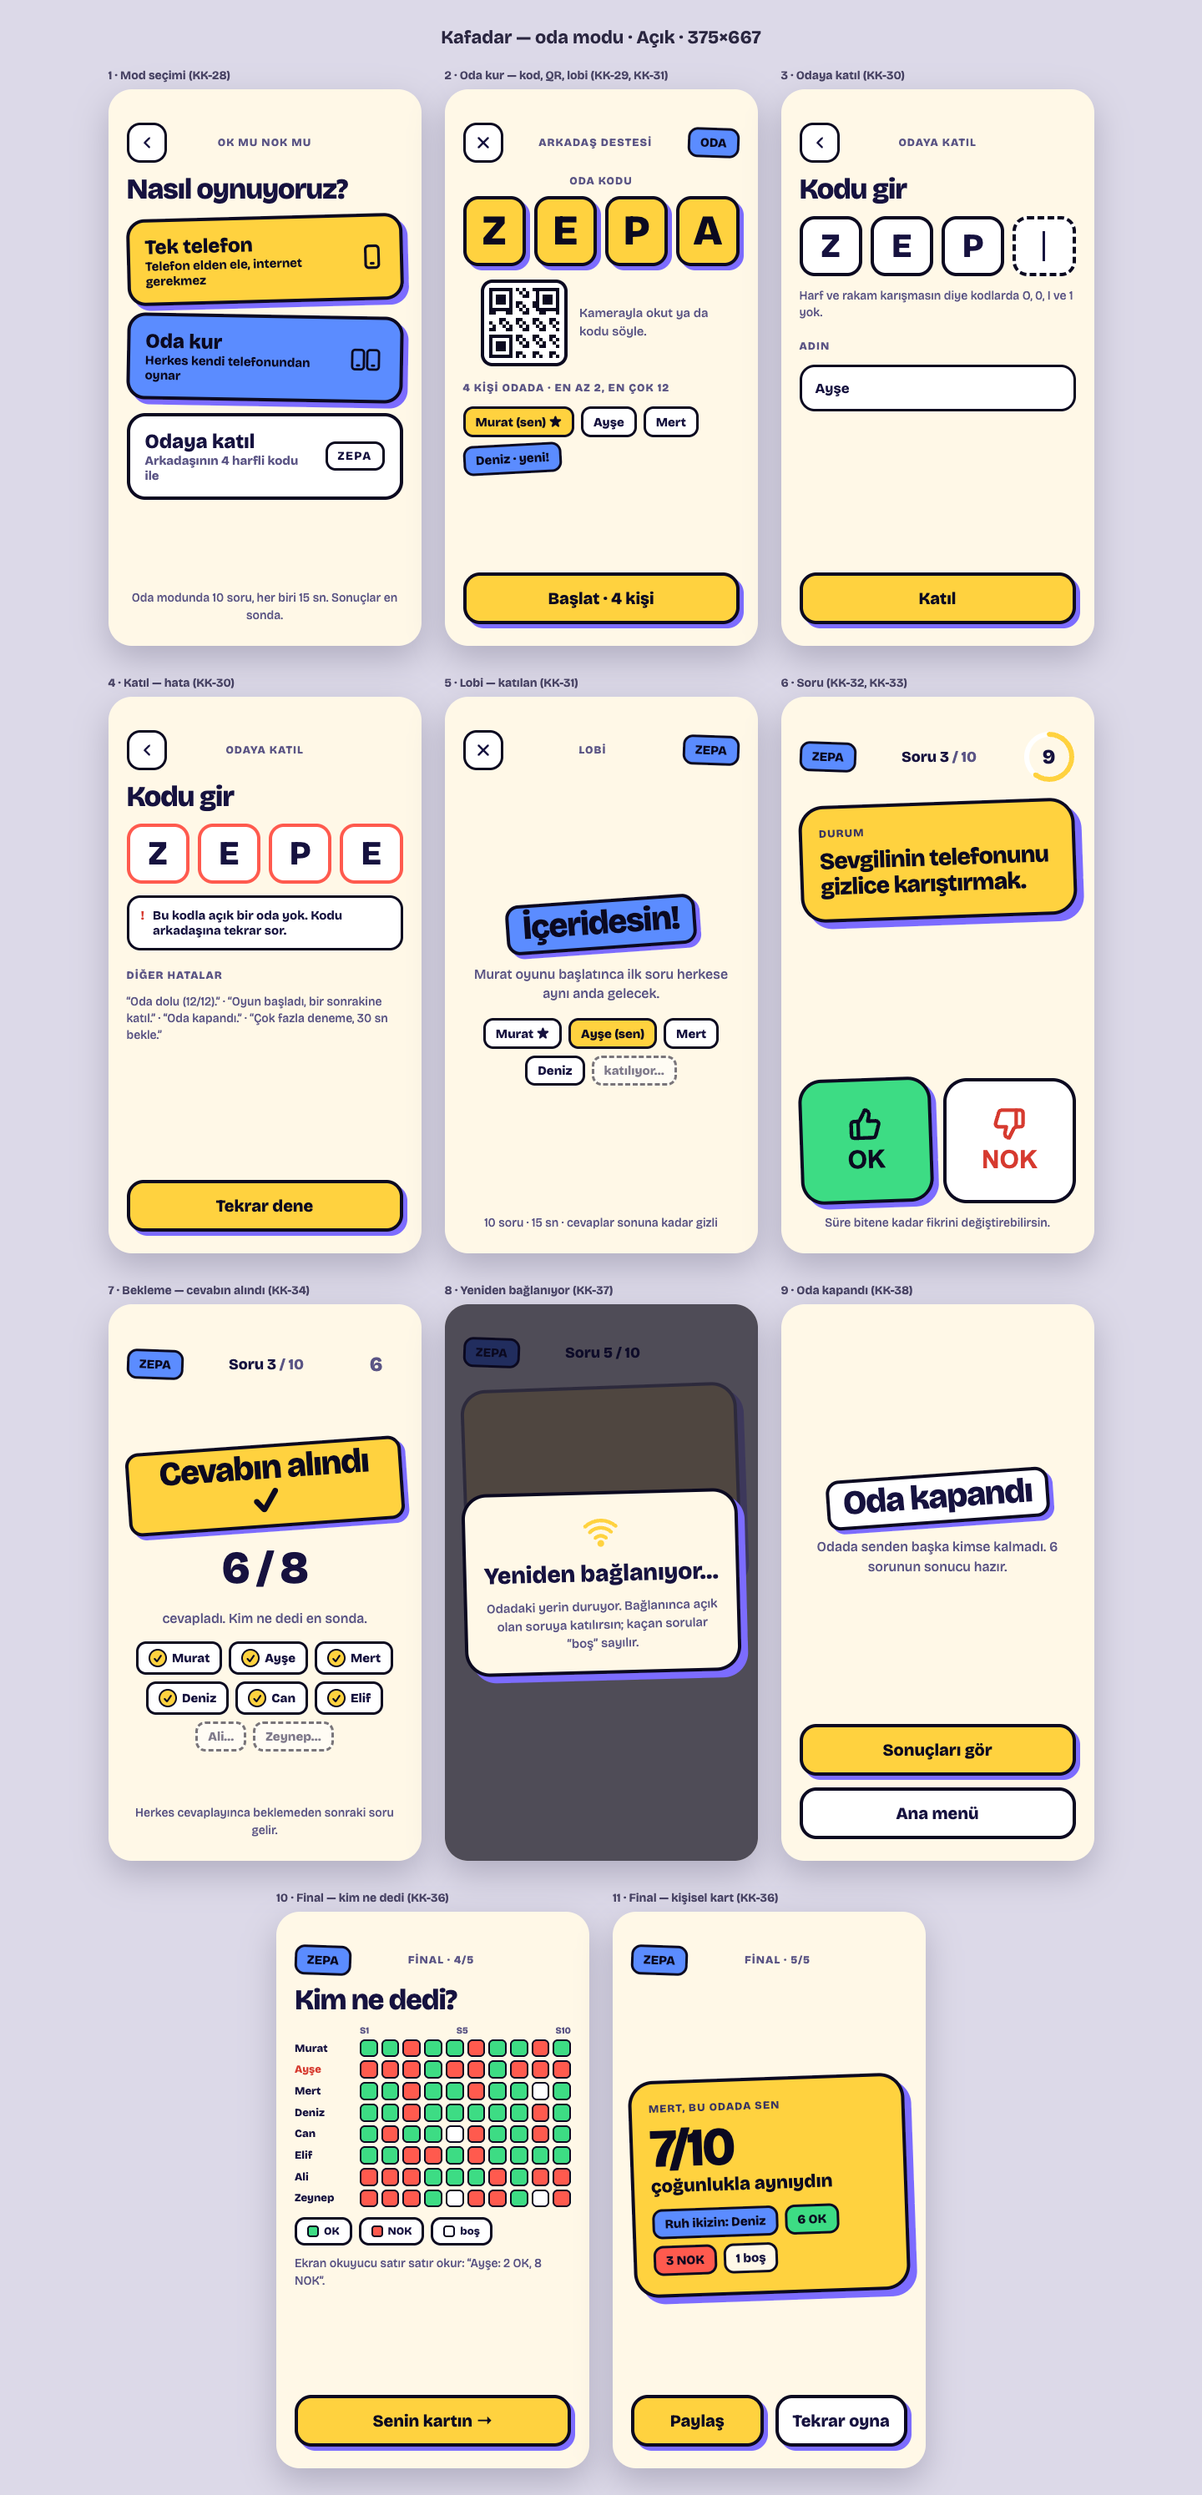
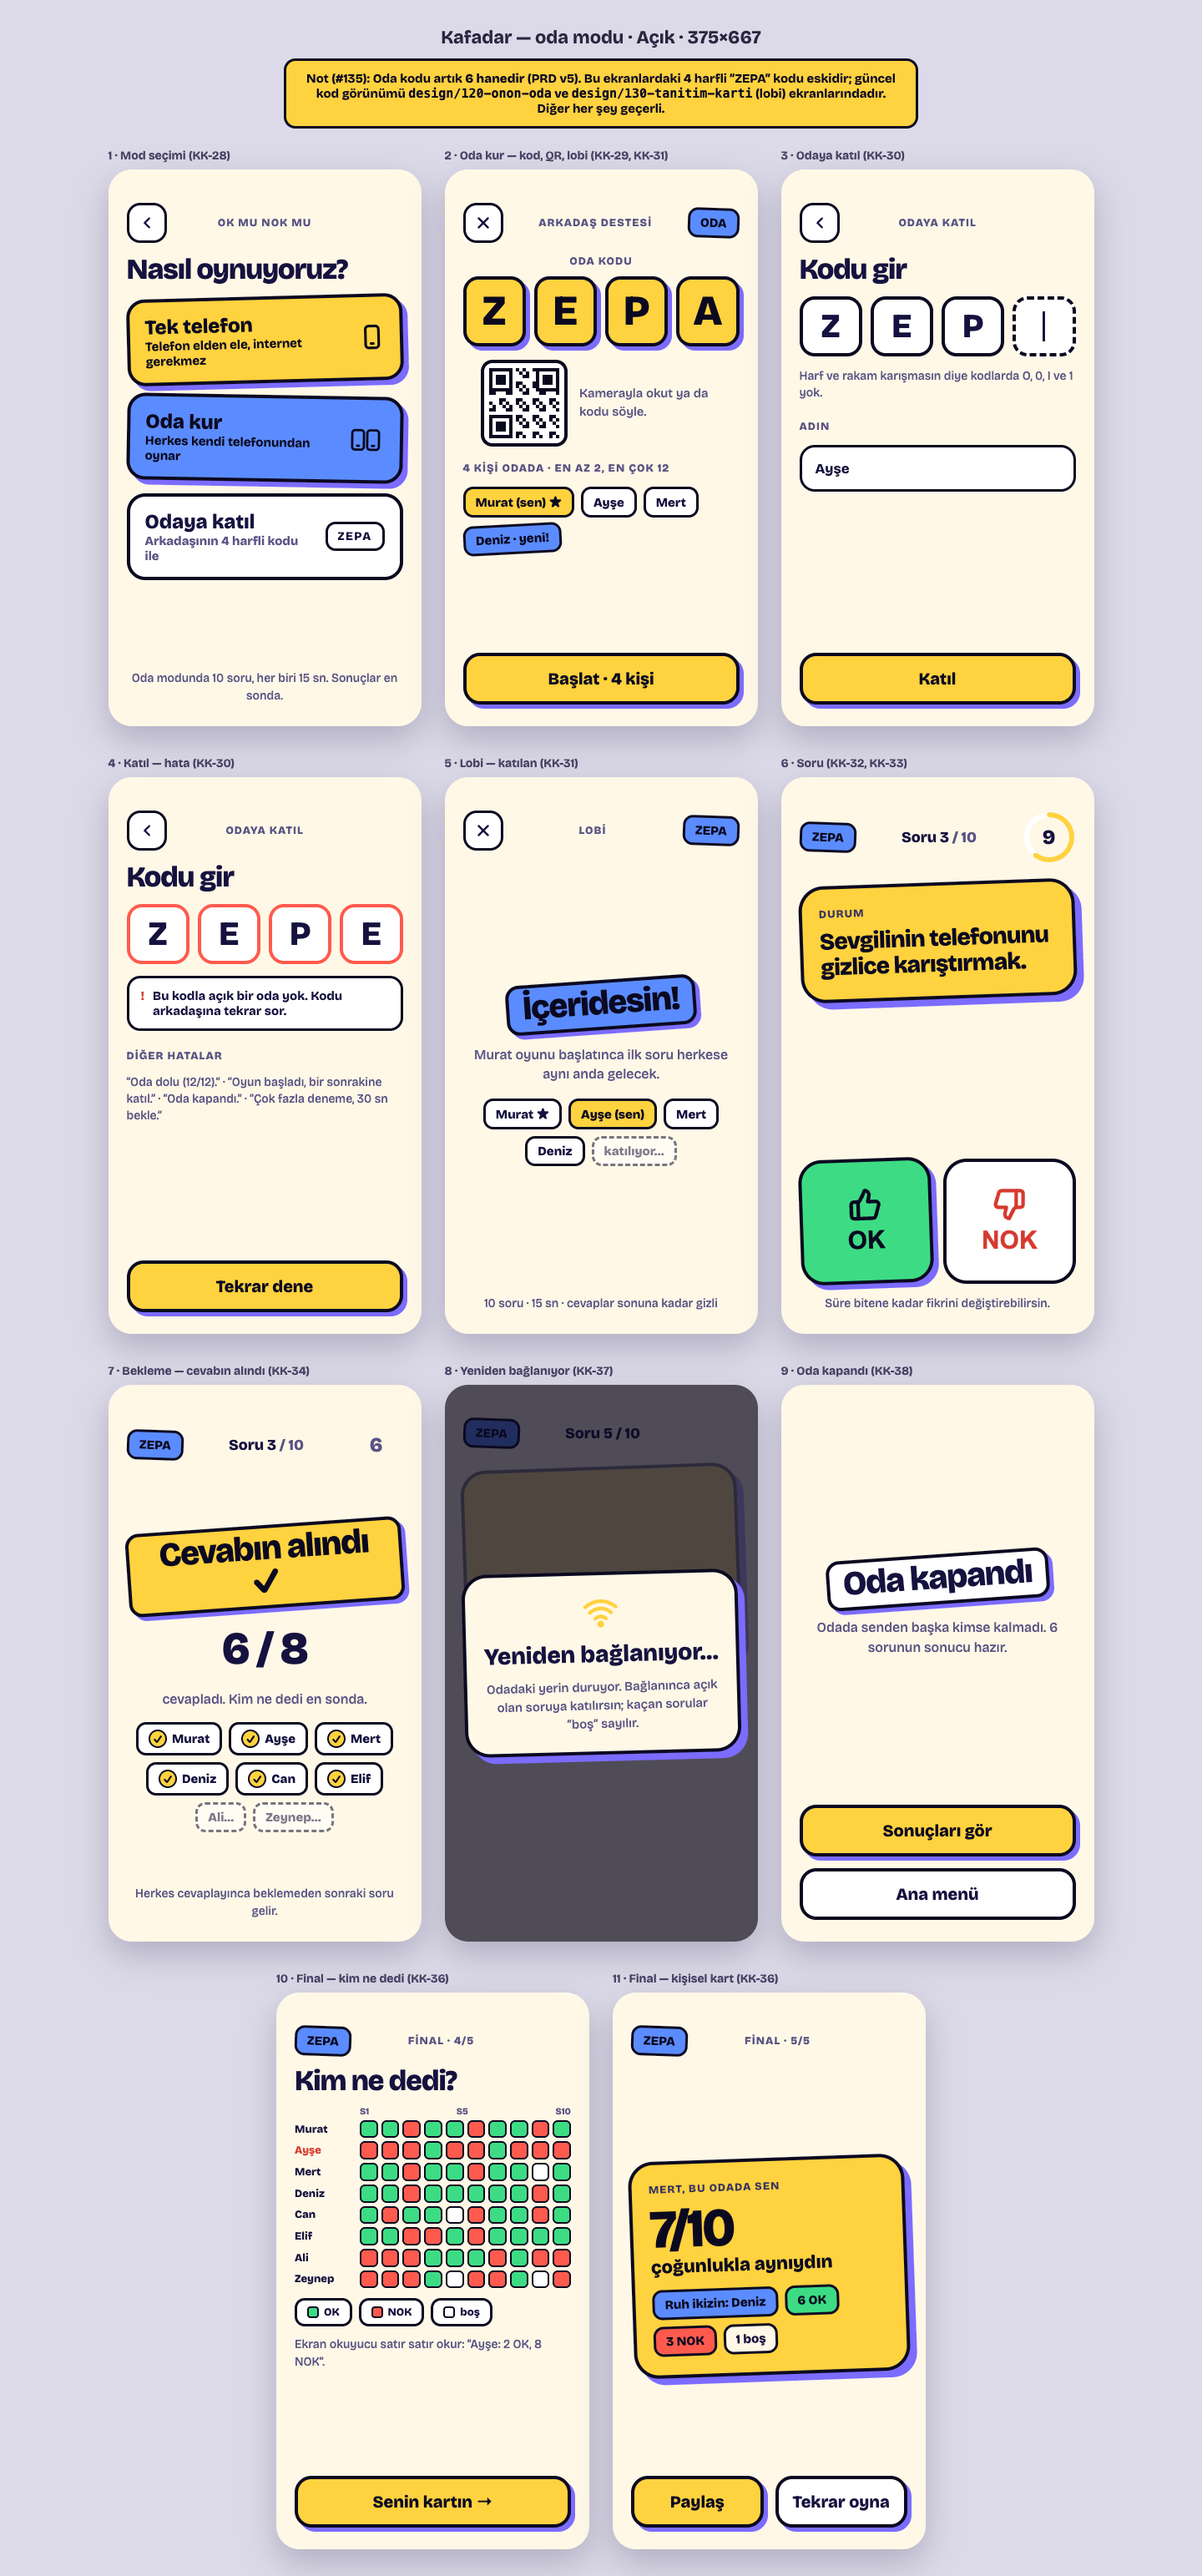
Refactor #135: design/ düzeni, tasarım sistemi ve tema tanımları (#148)
* Refactor #135: design/README, arşiv, oyuna göre kurallar ve tema tanımları tablosu

- design/README.md: klasör → issue → durum dizini
- Elenen görsel yönler A ve C design/arsiv/'e taşındı
- TASARIM-SISTEMI: tema tanımları (cizgi, yaricap.kucuk, perde, yazi.kart, yazi.sayi, paylaşım ölçeği) ve oyuna göre kurallar
- 49-oda-modu: 6 haneli kod notu

* Refactor #135: 49-oda-modu ekranlar-koyu-390x844 (6 haneli kod notu)

* Refactor #135: 49-oda-modu ekranlar-acik-375x667 (6 haneli kod notu)

---------

diff --git a/design/49-oda-modu/ekranlar.html b/design/49-oda-modu/ekranlar.html
@@ -65,6 +65,7 @@
 </svg>
 
 <h1 id="baslik">Kafadar — oda modu</h1>
+<p style="max-width: 760px; margin: -12px auto 24px; padding: 12px 16px; border-radius: 14px; border: 3px solid #0B0920; background: #FFD23F; color: #0B0920; font-weight: 700; font-size: 15px; text-align: center">Not (#135): Oda kodu artık <b>6 hanedir</b> (PRD v5). Bu ekranlardaki 4 harfli “ZEPA” kodu eskidir; güncel kod görünümü <code>design/120-onon-oda</code> ve <code>design/130-tanitim-karti</code> (lobi) ekranlarındadır. Diğer her şey geçerli.</p>
 <div id="ekranlar"></div>
 
 <template data-ad="1 · Mod seçimi (KK-28)">

diff --git a/design/TASARIM-SISTEMI.md b/design/TASARIM-SISTEMI.md
@@ -1,7 +1,8 @@
 # Kafadar — Tasarım sistemi
 
 Yön: **B · Çıkartma** (Semih, 27.10.2026, #2). Referans: `design/2-gorsel-yon/b.html` / `b.png`.
-İlke: az token, az bileşen, yalnızca v1. Yeni bir şey gerekirse önce buraya eklenir.
+İlke: az token, az bileşen. Yeni bir şey gerekirse önce buraya eklenir. Klasör dizini: `design/README.md`.
+Son güncelleme: v6 (#135, 29.10.2026): tema tanımları tablosu ve oyuna göre kurallar eklendi.
 
 ## Renk — anlamı olan renkler
 Kural: **yeşil = OK (onay), kırmızı = NOK (ret)**. Bu iki renk yalnızca oy ve oy sonucu için kullanılır. Oy olmayan her şey (düğme, geri sayım, ilerleme, kart) marka renkleriyle yapılır.
@@ -47,6 +48,34 @@ Tek aile: **Bricolage Grotesque** (uygulamaya paketlenir).
 - Dokunma alanı ≥ 48px; birincil düğme yüksekliği 62px.
 - Kenar boşluğu: yatay 22px, güvenli alanlar (çentik / dinamik ada) eklenir.
 
+## Tema tanımları (`src/tema.ts`)
+Ekranlarda sayı elle yazılmaz; aşağıdaki adlar kullanılır. ★ = yeni (Refactor 9, uygulaması #144). Diğerleri `tema.ts`'te zaten var.
+
+| Ad | Değer | Kullanım | Elle yazılmış değerlerin eşlenmesi |
+|---|---|---|---|
+| `cizgi.ince` ★ | 3 | Çip, oy satırı, tuş, küçük kutu konturu | 2 → 3 (konfeti ve tik dahil) |
+| `cizgi.kalin` ★ | 4 | Kart, düğme, diyalog, sticker konturu | 4 |
+| `yaricap.kucuk` ★ | 10 | Puan rozeti, küçük çubuk, minik kutu | 3, 4, 8, 9, 10, 14 → 10 |
+| `yaricap.cip` | 12 | Çip, sticker | 12 |
+| `yaricap.dugme` | 20 | Düğme, satır, seçim kutusu | 18, 20, 22 → 20 |
+| `yaricap.kart` | 30 | Kart, diyalog | 30 |
+| `yaricap.yuvarlak` | 999 | Hap, halka, daire | 99 → 999 |
+| `perde` ★ | `rgba(11,9,32,0.7)` (iki temada aynı) | Diyalog ve "Oyundan çık?" arka perdesi | `ui.tsx`'teki elle yazılmış değer |
+| `yazi.kart` ★ | 36 → 24 / 800, `letterSpacing -0.9`; sistem büyütmesinde ≥16pt | Kart metni (OK mu NOK mu, 10/10 ama, Casus kim) | Ekranlardaki kart fontSize'ları |
+| `yazi.sayi` ★ | 68 / 800, `tabular-nums` | Geri sayım, ortalama, oy sayısı | Ekranlardaki büyük sayı fontSize'ları |
+
+**Paylaşım görseli (1080×1920) ölçeği:** ekran değeri × **2,77** (1080 / 390), en yakın çift sayıya yuvarlanır. Görsel her zaman koyu temadır (bilerek).
+
+| Ad ★ | Değer | Kullanım |
+|---|---|---|
+| `paylasim.cizgi` | 10 | Kart, sticker, çubuk konturu |
+| `paylasim.golge` | 14 (kart 20) | Ofset gölge |
+| `paylasim.logo` | 96 | "Kafadar!" sticker'ı |
+| `paylasim.kart` | 84 → 64 | Kart metni (uzunluğa göre) |
+| `paylasim.sayi` | 200 | Ortalama, büyük skor |
+| `paylasim.etiket` | 44, `letterSpacing 0.08em` | "10 KARTTA BU ODA" gibi üst etiketler |
+| `paylasim.alt` | 40 / 700, `metin-soluk` | "Kafadar ile oynandı · …" alt satırı |
+
 ## Bileşenler (v1'de yalnızca bunlar)
 1. **Düğme**: birincil (`marka` dolgu), ikincil (`yuzey`), ikon düğme (48–62px kare). Basınca gölge 5→1px ve 3px aşağı-sağa kayar ("sticker'a basma").
 2. **Kart**: `marka` dolgu, 4px kontur, 8px gölge, −3°; arkasında `marka-2` arka kart.
@@ -54,7 +83,18 @@ Tek aile: **Bricolage Grotesque** (uygulamaya paketlenir).
 4. **Oy satırı**: isim + OK / NOK düğmesi (seçilince dolgu `ok`/`nok`, seçilmemişken `yuzey`).
 5. **Sonuç çubuğu**: `yuzey` zemin, `ok`/`nok` dolgu, sayı + ikon + kelime.
 6. **Geri sayım**: 3 halka, aktif olan büyük ve `metin` dolgulu.
-7. **Diyalog**: "Oyundan çık?", "Devam et / Yeni oyun" (kart görünümünde).
+7. **Diyalog**: "Oyundan çık?", "Devam et / Yeni oyun" (kart görünümünde). Tanıtım kartı da bu bileşendir (#130).
+
+## Oyuna göre kurallar
+Genel renk kuralı her oyunda geçerlidir: yeşil ve kırmızı yalnızca anlam taşır, oyun ve marka renkleri nötrdür.
+
+| Oyun / mod | Kural | Kaynak |
+|---|---|---|
+| **OK mu NOK mu** | `ok` = OK, `nok` = NOK; boş oy `yuzey` (kesik çizgi). Eşitlik `marka`. | #2 |
+| **Oda modu** (tüm oyunlar) | Oda rozeti `marka-2` ("ODA" çipi, 2° eğik). Oda kodu **6 hane** (PRD v5). `design/49-oda-modu` ekranlarındaki 4 harfli "ZEPA" eskidir; güncel görünüm `design/120-onon-oda`. Kuranda ★. Bekleme ekranında kimin cevapladığı görünür, ne dediği görünmez. Oda finali: B · Ekolayzer; "hareketi azalt"ta liste. | #49, #120 |
+| **10/10 ama** | Puan bantları: **0–3 `nok`** (sert), **4–6 `marka`** (kararsız), **7–10 `ok`** (cömert). Renk her zaman sayının yanında. Ortalama bir ondalık, Türkçe virgülle ("5,8"). Tuş takımı: tek telefonda 6+5, odada 4 sütun, tuş ≥48px; seçili tuş `ok` dolgu. Ödüller: En acımasız `nok`, Melek kalpli `ok`, Ruh ikizleri `marka-2`. | #107, #120 |
+| **Casus kim** | Oyun rengi nötr `marka-2` (kart). Yeşil yalnızca "grup casusu yakaladı", kırmızı yalnızca "casus kazandı"; casus için ayrı bir "tehlike" rengi yoktur. Normal kart ve casus kartı aynı renk, düzen, yazı boyutu ve titreşimle gösterilir; kartta emoji yok. Kart yalnızca basılı tutulunca görünür, bırakınca 150ms'de kapanır. | #80 (KK-45, KK-52) |
+| **Tanıtım kartı** | Diyalog bileşeni; oyun adı, kişi çipi (`kontur` dolgu, `marka` yazı), metin 16/600, "Tamam" 56px. "Nasıl oynanır?" bağlantısı üst çubuğun sağında, "?" rozetli hap, 48px (A, Metehan). | #130 |
 
 ## Hareket
 | Animasyon | Süre | Easing | Not / titreşim |

diff --git a/design/README.md b/design/README.md
@@ -1,0 +1,19 @@
+# design/ — tasarım dizini
+
+Kurallar ve token'lar: [`TASARIM-SISTEMI.md`](TASARIM-SISTEMI.md). Her klasör bir issue'ya bağlıdır. HTML dosyaları bağımsızdır ve tarayıcıda açılır; çoğu `?tema=koyu|acik&boy=<genişlik>x<yükseklik>` parametresi alır. PNG'ler `scripts/ekran-goruntusu.sh` ile üretilmiştir.
+
+| Klasör | Issue | Konu | Durum | Not |
+|---|---|---|---|---|
+| `2-gorsel-yon/` | #2 | Görsel yön | ✅ Geçerli (B) | Seçilen yön: B · Çıkartma (Semih). A ve C `arsiv/`'de. |
+| `2-ekranlar/` | #2 | OK mu NOK mu v1 ekranları, hareket prototipi, paylaşım | ✅ Geçerli | Tek telefon temel ekranları; diğer oyunlar bunları yeniden kullanır. |
+| `49-oda-modu/` | #49 | Oda modu (OK mu NOK mu) | ⚠ Kısmen eski | Oda kodu artık 6 hane (PRD v5); "ZEPA" görünümü eski. `final-secenekler`: B seçildi, A yalnızca "hareketi azalt" listesi, C kullanılmıyor. |
+| `80-casus-kim/` | #80 | Casus kim | ✅ Geçerli | Murat onayı. |
+| `107-on-on-ama/` | #107 | 10/10 ama (tek telefon) | ✅ Geçerli | Yalnızca OK mu NOK mu'dan farklı ekranlar. |
+| `120-onon-oda/` | #120 | 10/10 ama oda modu | ✅ Geçerli | Yalnızca farklar; kod 6 hane. |
+| `130-tanitim-karti/` | #130 | Tanıtım kartı, "Nasıl oynanır?" | ✅ Geçerli (A) | Bağlantı üst sağda (A, Metehan). 9 numaralı ekran (B) yalnızca karşılaştırma içindir. |
+| `arsiv/` | — | Elenen seçenekler | 🗄 Arşiv | Referans alınmaz. `arsiv/2-gorsel-yon/`: A · Neon Gece, C · Gece Dergisi. |
+
+**Yeni tasarım eklerken:**
+- Klasör adı `<issue-no>-<kisa-ad>/` olur.
+- Bu tabloya bir satır eklenir.
+- Elenen seçenekler seçimden sonra `arsiv/<klasör>/` altına taşınır.
